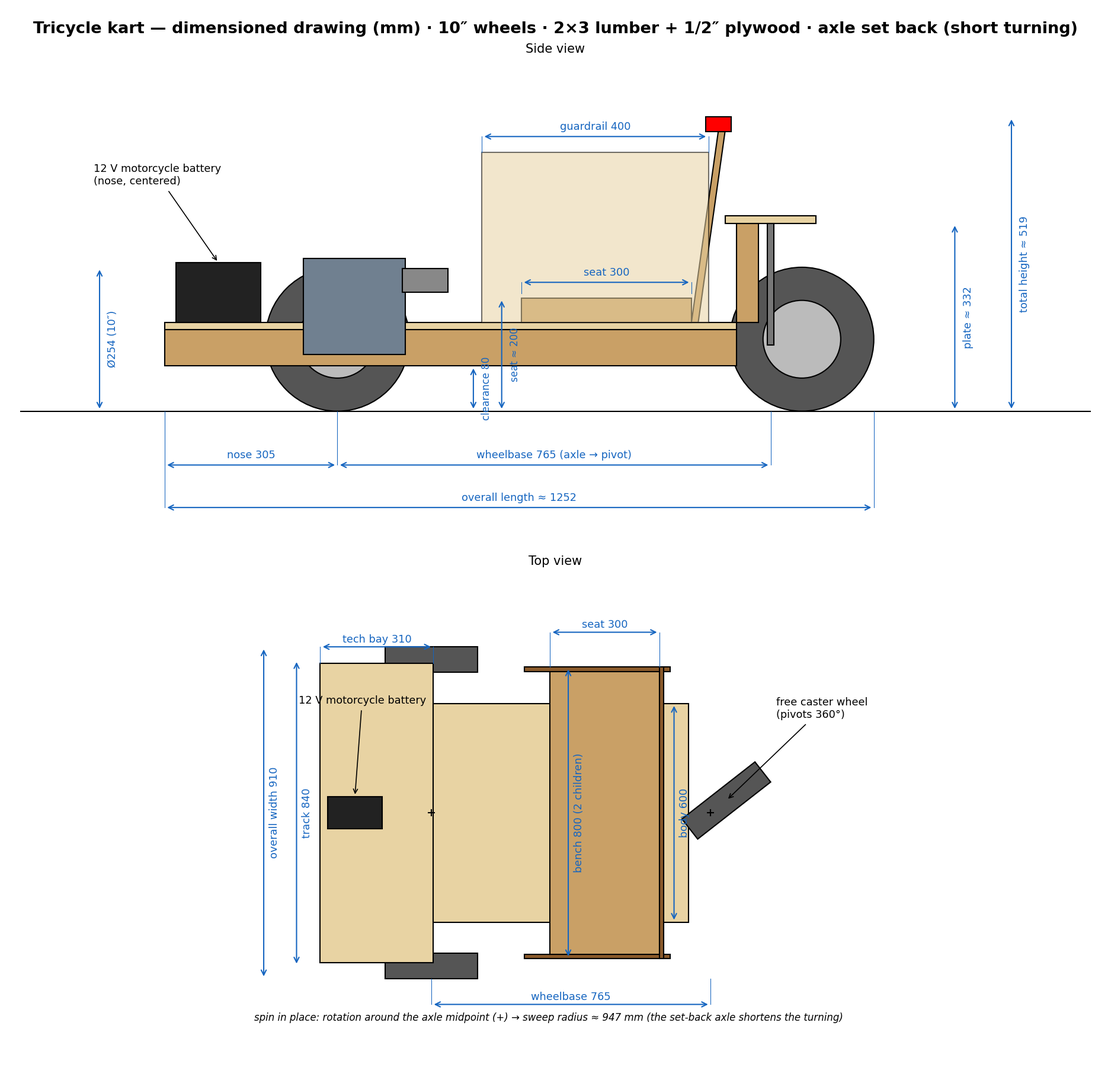
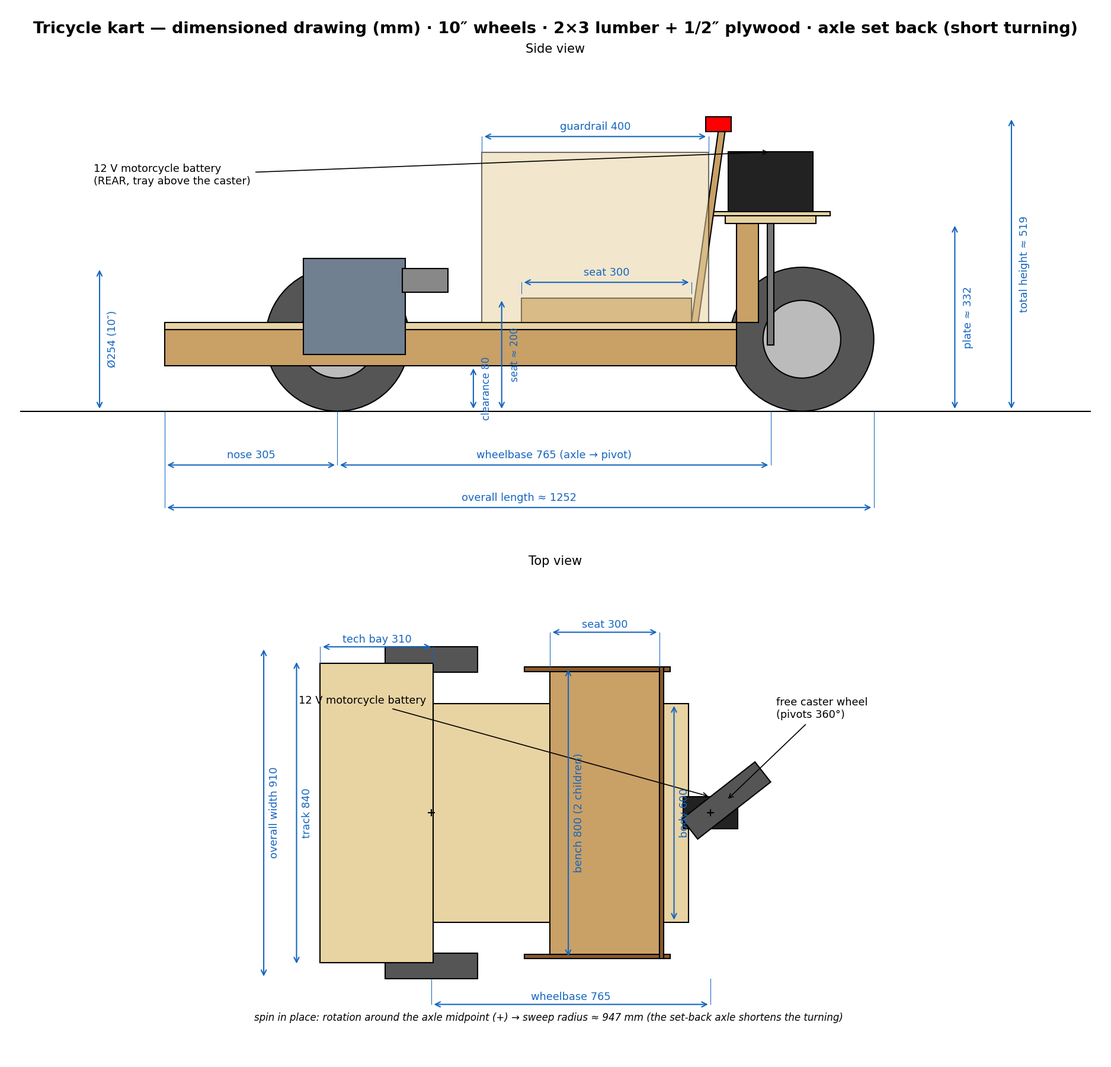
The battery moves to the rear, and the rollover range shrinks to match
'la batterie va être en arrière du KART... quelque chose au-dessus de la roue
folle pour contenir la batterie' — layout change with real physics attached.
The ~4.5 kg pack goes from the nose floor to a retaining tray above the
caster: loaded CG moves rearward and up (sim xcg_m 0.40→0.44, hcg_m
0.38→0.39), and for a tricycle that narrows the effective half-track at the
CG — a_tip drops from 5.2 to 4.4 m/s² (−14 %).

The simulation caught the consequence exactly as designed: the parameter
sweep, which validates the ENTIRE web-settable rollover range, went from
worst margin +0.42 m/s² to −0.26 — three combinations at turn_alat_vmax=0.4
now tip. Remedy in kind: the parameter's max shrinks 0.4→0.3 (clampAll
squashes any stored 0.4 on load), the sweep list follows, and the re-run
passes with 0.90 m/s² of worst margin. The 0.2 default keeps comfortable
margins throughout.

Diagrams and docs follow the battery: kart_concept.scad grows the retaining
tray (plate + rims) above the caster and re-renders, kart_dimensions.py
draws the pack on the tray at plate height, and README/electronique.md tell
the honest trade — the caster gains load (no more nose-lift worry), the
drive wheels lose a little traction/braking, the 10 AWG pair runs rear→front
(~0.3 V at 40 A), and the fuse moves to the battery end of that run.

diff --git a/doc/schematics/kart_dimensions.py b/doc/schematics/kart_dimensions.py
@@ -3,7 +3,8 @@
 #   . .venv-schem/bin/activate && python doc/schematics/kart_dimensions.py
 # Reference: x=0 = front axle. The axle is SET BACK 325 mm into the body (nose in front):
 # the spin-in-place center moves closer to the vehicle midpoint → reduced sweep radius,
-# and the 12 V battery in the nose loads the drive wheels (traction/braking).
+# The 12 V battery now sits at the REAR, in a retaining tray above the caster (2026-08-03):
+# CG moves back (xcg 0.40->0.44) — rollover range re-validated in simulation (sim_main sweep).
 import matplotlib
 matplotlib.use('Agg')
 import matplotlib.pyplot as plt
@@ -30,7 +31,7 @@ TOTAL_L = (CASTER_WHEEL_X + WHEEL_D / 2) - BODY0            # ≈ 1252
 SEAT_X0, SEAT_X1 = 650 - SHIFT, 950 - SHIFT                 # seat: 325..625
 GUARD_X0 = 580 - SHIFT                                      # guardrail: 255..655
 BACK_X = 950 - SHIFT                                        # seatback foot: 625
-BAT_X0, BAT_L, BAT_W, BAT_H = 40 - SHIFT, 150, 88, 105      # 12 V motorcycle battery (nose, centered)
+BAT_X0, BAT_L, BAT_W, BAT_H = PIVOT_X - 75, 150, 88, 105    # 12 V battery: REAR, tray above the caster
 BODY_W, SEAT_W, BAY_W = 600, 800, 820
 OVERALL_W = TRACK + WHEEL_W            # 910
 SWEEP_R = CASTER_WHEEL_X + WHEEL_D / 2                      # sweep radius when pivoting ≈ 947
@@ -65,7 +66,8 @@ ax.add_patch(Circle((CASTER_WHEEL_X, AXLE_Z), WHEEL_D / 2, fc=DARK, ec='k'))  # 
 ax.add_patch(Circle((CASTER_WHEEL_X, AXLE_Z), WHEEL_D * 0.27, fc='#bbbbbb', ec='k'))
 ax.add_patch(Rectangle((BODY0, CLEAR), 1010, LU_H, fc=WOOD, ec='k'))       # stringer
 ax.add_patch(Rectangle((BODY0, FLOOR_Z), 1010, PLY, fc=PLYC, ec='k'))      # floor
-ax.add_patch(Rectangle((BAT_X0, FLOOR_TOP), BAT_L, BAT_H, fc='#222222', ec='k'))  # 12 V battery
+ax.add_patch(Rectangle((BAT_X0 - 30, CASTER_PLATE + PLY), BAT_L + 60, 8, fc=PLYC, ec='k'))  # battery tray
+ax.add_patch(Rectangle((BAT_X0, CASTER_PLATE + PLY + 8), BAT_L, BAT_H, fc='#222222', ec='k'))  # 12 V battery
 ax.add_patch(Rectangle((SEAT_X0, FLOOR_TOP), 300, 30 + PLY, fc=WOOD, ec='k'))  # seat
 ax.add_patch(Polygon([(BACK_X, FLOOR_TOP), (BACK_X + 340 * math.cos(math.radians(82)), BACK_TOP),
                       (BACK_X + 12 + 340 * math.cos(math.radians(82)), BACK_TOP), (BACK_X + 12, FLOOR_TOP)],
@@ -78,7 +80,7 @@ ax.add_patch(Rectangle((-60, CLEAR + 20), 180, 170, fc='#708090', ec='k'))      
 ax.add_patch(Rectangle((115, CLEAR + 130), 80, 42, fc='#888888', ec='k'))           # motor
 be_x = BACK_X + 340 * math.cos(math.radians(82))
 ax.add_patch(Rectangle((be_x - 22, BACK_TOP), 45, 26, fc='red', ec='k'))            # e-stop
-ax.annotate("12 V motorcycle battery\n(nose, centered)", xy=(BAT_X0 + BAT_L / 2, FLOOR_TOP + BAT_H),
+ax.annotate("12 V motorcycle battery\n(REAR, tray above the caster)", xy=(BAT_X0 + BAT_L / 2, CASTER_PLATE + PLY + 8 + BAT_H),
             xytext=(-430, 400), fontsize=8.5, arrowprops=dict(arrowstyle='->', lw=0.8))
 
 dim(ax, (BODY0, 0), (0, 0), "nose 305", off=-95)

diff --git a/firmware/main/config_params.cpp b/firmware/main/config_params.cpp
@@ -61,8 +61,8 @@ extern constexpr ParamDesc PARAMS[] =
     // OFFSET LOAD (child alone on one side, adult+child) tips over with the old
     // linear ramp as soon as gain=1 — the iso-a_lat at 0.2 restores healthy margins (≥ +0.8 m/s²).
     {"turn_alat_vmax",  "Max turn at Vmax (0-1)", "Rollover protection",
-     "Turn limit at maximum speed; in between, the limit follows 1/v (same lateral acceleration at all speeds). 0.2 = the only value verified safe by simulation for offset loads (child alone on one side, adult+child) with turn gain 1.",
-     PType::Float, {.f = 0.1f}, {.f = 0.2f}, {.f = 0.4f}, {.f = &KartConfig::turn_hi}},
+     "Turn limit at maximum speed; in between, the limit follows 1/v (same lateral acceleration at all speeds). 0.2 = the default verified safe by simulation for offset loads with turn gain 1. Range re-validated for the REAR battery (max was 0.4 with it in the nose; 0.4 tips with the new CG).",
+     PType::Float, {.f = 0.1f}, {.f = 0.2f}, {.f = 0.3f}, {.f = &KartConfig::turn_hi}},
     // (No vbat_div_ratio: the divider is fixed by the resistors on the board — hw::VBAT_DIV_RATIO.)
     {"vbat_check_en",   "Voltage check (0/1)",    "Battery",
      "1 = the low-voltage cutoff (LVC) is a driving condition: below the threshold of the detected battery the kart disarms, refuses to move, and cuts the power after 30 s. 0 = the voltage is still measured, displayed and graphed, but NEVER blocks anything — for bench work with no pack on the divider bridge. WARNING: with 0 the battery's own BMS is the only remaining protection against deep discharge.",

diff --git a/firmware/test_host/sim/vehicle.hpp b/firmware/test_host/sim/vehicle.hpp
@@ -30,8 +30,9 @@ struct VehicleParams
     float track_m   = 0.84f;    // front track width (centers of the drive wheels)
     float wb_m      = 0.765f;   // wheelbase axle → caster wheel pivot
     float iz_kgm2   = 12.f;     // yaw inertia (estimated: m·(L/2)²·k)
-    float xcg_m     = 0.40f;    // CG behind the front axle (battery at the nose)
-    float hcg_m     = 0.38f;    // height of the loaded CG (children sitting low, moving a bit)
+    float xcg_m     = 0.44f;    // CG behind the front axle — battery moved to the REAR,
+                                // above the caster (2026-08-03): was 0.40 with it in the nose
+    float hcg_m     = 0.39f;    // loaded CG height (battery raised onto the caster shelf)
     float ycg_m     = 0.f;      // LATERAL offset of the CG (+ = left) — asymmetric load
 
     // ── 12 V DC motor (per wheel) — 4615 rpm no-load, ~19.6 A nominal ──

diff --git a/firmware/test_host/sim_main.cpp b/firmware/test_host/sim_main.cpp
@@ -325,7 +325,10 @@ void testParamSweep()
     int runs = 0;
     float worst = 1e9f;
     float worst_hi = 0, worst_full = 0, worst_lim = 0;
-    for (float turn_hi : {0.2f, 0.3f, 0.4f})
+    // 0.4 was in this list while the battery lived in the NOSE. Rear battery (2026-08-03):
+    // xcg 0.40→0.44, a_tip 5.2→4.4 m/s², and 0.4 tips (measured: margin −0.26 m/s²).
+    // The sweep validates the whole WEB RANGE, so the param max shrank with it.
+    for (float turn_hi : {0.2f, 0.3f})
         for (float turn_full : {0.3f, 0.5f, 0.8f})
             for (float vlim : {2.0f, 3.3f})
             {

diff --git a/README.md b/README.md
@@ -33,7 +33,7 @@ flowchart TB
     subgraph AV["◄ FRONT ► — 2 DRIVE wheels + TECH BAY"]
         direction LR
         AVG["🛞 front wheel L<br/>motor + gearbox + #35 chain"]
-        BAY["🔋 TECH BAY (nose)<br/>12 V motorcycle battery<br/>🧠 ESP32 + 2-channel driver"]
+        BAY["🧠 TECH BAY (nose)<br/>ESP32 + 2-channel driver<br/>(short motor wiring)"]
         AVD["🛞 front wheel R<br/>motor + gearbox + #35 chain"]
         AVG ~~~ BAY ~~~ AVD
     end
@@ -46,7 +46,7 @@ flowchart TB
     end
     subgraph AR["◄ REAR ► — FREE caster wheel"]
         direction LR
-        ARC["🛞 pivoting caster wheel<br/>(caster, unpowered)"]
+        ARC["🛞 pivoting caster wheel<br/>(caster, unpowered)<br/>🔋 12 V battery on a tray above"]
     end
     AV --> CAB --> AR
 
@@ -68,9 +68,9 @@ flowchart TB
 
 > Regenerable visual concept: [`doc/cad/kart_concept.scad`](doc/cad/kart_concept.scad) (OpenSCAD —
 > 2 powered 10″ wheels at the front **with the axle set back into the body** (nose ~30 cm ahead of
-> the axle → short turning radius), **12 V motorcycle battery at the front, centered**, free 10″
-> caster wheel on a raised tail, 2-child bench, side guardrails, emergency stop at the top of the
-> seatback, 2×3 frame + 1/2″ plywood).
+> the axle → short turning radius), free 10″ caster wheel on a raised tail with the **12 V motorcycle battery in a
+> retaining tray above it (REAR)**, 2-child bench, side guardrails, emergency stop at the top of
+> the seatback, 2×3 frame + 1/2″ plywood).
 
 ![Dimensioned drawing of the kart](doc/schematics/kart_dimensions.png)
 
@@ -92,7 +92,7 @@ flowchart TB
 | **Wheels** | **2× front drive Ø25.4 cm (10″)** (plastic rim, 1/2" bearing) + **1 free pivoting rear caster wheel** |
 | **Driving** | **Bluetooth gamepad** (stick: Y = forward/reverse, X = turn); **calibration mandatory**; analog joystick reserved (future) |
 | **Electronics** | **ESP32** → **dual-channel driver 20 A / 6–30 V** (PWM + DIR / channel), **PWM capped at ≈ 12 V/Vbat** (12 V → ~100%, 24 V → ~50%); **tech bay in the nose** (near the 2 motors, short power wiring) |
-| **Power** | **One 12 V motorcycle battery**, **at the front, centered in the nose** — its weight loads the drive axle. Single pack, no paralleling |
+| **Power** | **One 12 V motorcycle battery**, **at the REAR in a retaining tray above the caster wheel** (owner's build choice). CG re-validated in simulation (turn range capped). Single pack, no paralleling |
 | **Speed** | Measured by **2 AS5600 angle sensors** (one per wheel, 1 per I²C bus); control loop at **500 Hz** |
 | **Controls** | Driving with the **Bluetooth gamepad**; **arming** button (physical or gamepad START, ~1 s); **hardware emergency stop** at the **top of the seatback, centered** (opens the 40 A motor relay by breaking its COIL — thin wires, ~10-20 ms; the logic rail stays up so the kart reports WHY it stopped; reachable by both kids and by an adult behind) **+** software emergency stop = gamepad button **B**; **electric brake by default** |
 | **Frame** | Lightweight **wood**: **2×3** studs + **6 mm plywood** floor |
@@ -105,7 +105,7 @@ flowchart TB
 - **Controlled stability**: a tricycle tips over faster than a 4-wheeler → low seat (16 cm), **wide front track** + **firmware rollover protection** (clamping the turn amplitude by speed **and** a slew-rate limiter on the turn).
 - **Flexible battery voltage (6–30 V driver)**: the motors are 12 V; the firmware **caps PWM AUTOMATICALLY at 12 V / measured Vbat** (smoothed ~1 s): motorcycle battery **12 V → ~100%**, 20 V pack → ~60%, **24 V → ~50%**. Changing battery = adjust the Vbat measurement **voltage divider** (swap the two resistors and edit the `hw::VBAT_R_TOP`/`VBAT_R_BOTTOM` constants — deliberately NOT a web setting, a wrong ratio would silently drag the LVC along); the LVC thresholds are **hard-coded per battery type** (12/24 V, detected at startup). A **manual** cap (`duty_cap`) remains available; ⚠ **without the Vbat sensor (ADS1115), the auto cap is inactive** → set `duty_cap` by hand if the battery exceeds 12 V.
 - **Free-rolling front wheels**: driven by **#35 chain** (sprocket bolted to the rim), they keep their original bearing — no through drive axle.
-- **Tech bay at the front**: batteries + driver + ESP32 are grouped **at the front, near the 2 motors** → **short power wiring** (fewer losses, fewer ~10 AWG wires to run), drive mass and energy concentrated over the drive axle. Longitudinal layout: **NOSE (tech bay + battery) → DRIVE AXLE → CABIN → REAR (free caster wheel)**. **The axle is set back ~32 cm into the body**: in a pivot in place (rotation about the middle of the axle) the swept envelope drops from ~1.27 m to **~0.95 m radius** (short turning radius), and the weight of the **battery centered in the nose** loads the drive wheels (traction + braking).
+- **Tech bay at the front, battery at the REAR**: the driver + ESP32 stay **near the 2 motors** (short motor wiring), while the **battery sits in a retaining tray above the caster wheel** — easier to secure and to swap. Longitudinal layout: **NOSE (electronics) → DRIVE AXLE → CABIN → REAR (caster + battery tray)**. **The axle is set back ~32 cm into the body**: pivot-in-place sweep ~0.95 m radius. The rear battery is an accepted trade: it **unloads the drive wheels a little** (traction/braking) and moves the CG rearward — the rollover protection range was **re-validated in simulation** for this CG (xcg 0.40→0.44: the old `turn_alat_vmax` max of 0.4 now tips, the range is capped at 0.3), and the battery leads run rear→front in 10 AWG (~0.3 V drop at 40 A).
 - **Safety**: **central hardware emergency stop**, at the **top of the seatback** (within reach of both kids and an adult behind), **e-stop in the 40 A relay's coil loop** (the mushroom breaks 150 mA, the relay contact breaks the 40 A; the logic rail survives and the firmware raises the MOTOR-POWER fault — which doubles as the per-session welded-contact test) **and** software gamepad emergency stop (button B); start via **momentary button** priming the two-relay latch (small opto module = logic rail, 40 A relay = motor power, the ESP holds via `POWER_HOLD`), one 40 A fuse, **electric brake by default** (gamepad disconnect → immediate braking), low-voltage cutoff (LVC), **2 s watchdog (PANIC)**, **disarmed** start by default, guards over chains/sprockets, seatbelt, helmet.
 
 ---
@@ -118,7 +118,7 @@ flowchart TB
 | Overall width | **96 cm** | Must fit **two kids side by side** |
 | **Bench inner width** | **~80 cm** | 2 × ~40 cm/child (shoulders + elbows) |
 | **Side guardrails** (1/2″ plywood, on each side of the bench) | height **~30 cm** above the floor, length ~40 cm | Keep the child from **falling out sideways**; rounded edges |
-| **Tech bay** (nose, **ahead of the axle**) | length ~**30 cm** | Houses the **battery (likely 12 V motorcycle, centered)** + driver, ESP32, breakout near the 2 motors (short wiring); the weight ahead of the axle **loads the drive wheels** |
+| **Tech bay** (nose, **ahead of the axle**) | length ~**30 cm** | Houses the driver, ESP32, breakout near the 2 motors (short motor wiring). The **battery lives at the REAR** (tray above the caster) |
 | **Front track** (drive-wheel spacing, center to center) | **84 cm** | Wide track = **tip resistance** AND **differential lever arm** (the wider the track, the sharper the turn for a given differential) |
 | **Wheelbase** (front axle ↔ caster pivot) | **~76 cm** (axle **set back** ~32 cm into the body) | **Short turning radius**: the pivot-in-place rotates about the middle of the axle → axle close to the vehicle center = **swept radius ~0.95 m**; and more weight on the drive wheels (traction/braking) |
 | Seat height (ground → seat bottom) | **16 cm** | **Low** center of gravity = limits rollover |
@@ -144,12 +144,13 @@ Reference 0 = **front** axle (drive wheels); dimensions measured **toward the re
 
 | Item | Distance from front axle | Height / ground |
 |---|---|---|
-| **Tech bay** (battery + electronics) | **~−30–0 cm (nose)** | on the floor, low |
+| **Tech bay** (electronics) | **~−30–0 cm (nose)** | on the floor, low |
 | Front axle (drive wheels, reference) | **0 cm** | center at 12.7 cm (Ø25.4 wheel) |
 | **Footrest** | **~5 cm** | footrest just behind the axle |
 | Front of the seat | **~32 cm** | ~20 cm |
 | **Back of the seatback** | **~62 cm** | seat at ~20 cm |
 | Rear caster pivot (free) | **~76 cm** | 10″ wheel (Ø25.4), plate at ~33 cm |
+| **Battery tray** (12 V battery, retained) | **~69–84 cm (above the caster)** | plate ~33 cm + battery |
 
 ➡ With the **Bluetooth gamepad**, there's **no more pedal box or steering wheel** to position: only seating ergonomics matter. **Seatback → footrest ≈ 57 cm** (62 − 5) ✔ leg almost straight, slight knee bend. Provide a safe place to **rest/charge the gamepad**. **Adjustable** seat (§6) to fit the child's size.
 
@@ -170,11 +171,11 @@ Reference 0 = **front** axle (drive wheels); dimensions measured **toward the re
 
 ```mermaid
 flowchart LR
-    BAY["🔋 Nose: tech bay<br/>12 V motorcycle battery — ~−30–0 cm"]
+    BAY["🧠 Nose: tech bay<br/>(ESP32 + driver) — ~−30–0 cm"]
     AV["🛞 Front drive axle<br/>Ø25.4 cm — 0 cm"]
     ASS["Front of seat<br/>~32 cm"]
     DOS["Seatback<br/>~62 cm"]
-    AR["🛞 Free rear caster<br/>pivot ~76 cm (10″ wheel)"]
+    AR["🛞 Free rear caster ~76 cm<br/>🔋 battery tray above (plate ~33 cm)"]
 
     BAY --> AV --> ASS --> DOS --> AR
 
@@ -196,7 +197,7 @@ flowchart LR
 flowchart TB
     subgraph AV["FRONT — 2 DRIVE wheels + TECH BAY"]
         RAVG["🛞 front left (drive)"]
-        BAY["🔋 tech bay<br/>batteries + driver + ESP32"]
+        BAY["🧠 tech bay<br/>driver + ESP32"]
         RAVD["🛞 front right (drive)"]
         RAVG --- BAY --- RAVD
     end
@@ -207,7 +208,7 @@ flowchart TB
         COND --- SEP --- PASS
     end
     subgraph AR["REAR — FREE caster wheel"]
-        RARC["🛞 pivoting caster wheel (caster)"]
+        RARC["🛞 pivoting caster wheel<br/>🔋 battery tray above"]
     end
     AV --- HAB --- AR
 
@@ -289,7 +290,7 @@ Web parameters: **`turn_gain`** (turn authority), **`turn_full_ms`** / **`turn_a
 | | **2× AS5600 angle sensor** + diametric magnet | one per front wheel, **1 per I²C bus**; contactless magnetic, **12-bit absolute I²C** (fixed address 0x36), **3.3 V native** (no level-shift), 4.7 kΩ pull-ups |
 | **Driving** | **Bluetooth gamepad** | stick: Y = forward/reverse, X = turn; button **B** = emergency stop, button **START** = arming; **calibration mandatory** |
 | | *Analog joystick* | **reserved (future, not wired)**: 2 ADS1115 channels (A1/A2) planned behind the same software abstraction |
-| **Power / electronics** | Battery | **One 12 V motorcycle battery** (~40 A peak OK, PWM ~100%) **centered in the nose**. No paralleling this phase. The driver accepts up to **30 V**, and the firmware still supports **24 V** (2×12 V in series, auto PWM ~50%) — unlikely to be used, and it would need the divider changed to 100 k/12 k (12 V/Vbat) |
+| **Power / electronics** | Battery | **One 12 V motorcycle battery** (~40 A peak OK, PWM ~100%) **at the REAR, strapped in a retaining tray above the caster wheel**. No paralleling this phase. The driver accepts up to **30 V**, and the firmware still supports **24 V** (2×12 V in series, auto PWM ~50%) — unlikely to be used, and it would need the divider changed to 100 k/12 k (12 V/Vbat) |
 | | **Battery adapters** (×2) | Slide-on holder → power terminals (+ / −) |
 | | **40 A DC relay** + optocoupler + drive transistor | main power switch (see [power switch](#power-switch-two-rails-two-relays)) + 1 fuse |
 | | **Power switch (latch)** | **opto-isolated relay module** (logic rail, driven by `POWER_HOLD`) + **start button** (primes; hold ~1 s at power-up) + **hidden FORCE ON toggle** (bench/flash). **No hold capacitor**: a reboot powers the kart off cleanly. Full BOM: [`doc/electronique.md`](doc/electronique.md) |
@@ -791,7 +792,7 @@ To adjust the **seatback ↔ front-of-seat** distance to the child's size:
 | + 2 kids (~33 kg each) | +66 kg |
 | **LOADED TOTAL** | **≈ 98 kg** |
 
-**Consequences:** wood dominates (~56% empty) → the first lever for weight saving. Removing the steering parts (steering wheel, column, tie rod, steering knuckles) **saves weight** versus the 4-wheeler; on the other hand the 2nd motor **and the tech bay (batteries + electronics)** concentrate the mass at the **front** (over the drive axle) → **load transfer onto the 2 drive wheels** (good for grip and traction; check that the rear caster stays loaded so it doesn't lift the nose). Rolling resistance at ~100 kg ≈ **25 N** on the flat; the combined drive force of the 2 front wheels is more than enough → **OK on the flat**, realistic grade **~3–6%**. Electric braking must be sized for ~100 kg.
+**Consequences:** wood dominates (~56% empty) → the first lever for weight saving. Removing the steering parts (steering wheel, column, tie rod, steering knuckles) **saves weight** versus the 4-wheeler; the electronics stay at the **front** near the motors, while the **battery now loads the rear caster** (tray above it) — no more nose-lift worry, but it **removes a little load from the drive wheels** (traction/braking) and moves the CG rearward: the rollover range was **re-validated in simulation** for this CG (`turn_alat_vmax` capped at 0.3; the sim's `xcg_m` went 0.40→0.44). Rolling resistance at ~100 kg ≈ **25 N** on the flat; the combined drive force of the 2 front wheels is more than enough → **OK on the flat**, realistic grade **~3–6%**. Electric braking must be sized for ~100 kg.
 
 ---
 
@@ -815,7 +816,7 @@ flowchart LR
 
 **Phase 3 — Front drives (replaces the old "steering").** On **each front wheel**: bolted sprocket (large washers / backing plate) + 3D gearbox + motor on a reinforced mount + #35 chain cut to length + tension adjustment + guard. **No linkage**: steering is differential, so nothing to adjust on the steering-wheel/tie-rod side. ✅ *With no power: each front wheel turns by hand, chain tensioned and lubricated.*
 
-**Phase 4 — Power electronics ⚠ (at the front).** The **single 12 V pack housed in the front tech bay** (short power wiring to the 2 motors); **fuse 40 A → 40 A DC relay → +12 V rail**; the relay coil driven by an **opto-isolated relay module** from `POWER_HOLD`, primed by the **button**, **hold START ~1 s** at power-up (the ESP needs ~700 ms to reach `app_main`); **NO hold capacitor** — a reboot drops the rail and powers the kart off cleanly (re-prime with START); a **hidden FORCE ON toggle inside the enclosure** forces the logic rail for bench/flash work; the **e-stop (NC mushroom) goes in the 40 A relay's COIL loop** (+12V_LOG → mushroom → 85; thin wires to the seatback, the relay contact breaks the 40 A); **1N4007 flyback across the 40 A coil** (cathode to 85/+). See [`doc/electronique.md`](doc/electronique.md) for the full wiring guide and [`doc/schematics/power_rails.png`](doc/schematics/power_rails.png) for the schematic; **mount the emergency-stop mushroom button at the top of the seatback, centered** (within reach of both kids and an adult behind); driver (⚠ **VB+/VB- polarity**) → 2 front motors; **~10 AWG**, crimped lugs. ✅ *With a multimeter BEFORE connecting: polarity, ~12 V at the driver, the button primes, and **the central e-stop kills the motor rail while the logic stays up** (the page must show the MOTOR POWER fault, GPIO22). Then check the reboot case: force a reset while powered — the relay MUST drop (clean power-off) and START must bring it back. Finally the 30-second brake test: logic up, motor relay open, spin a wheel by hand — if it resists, the e-stop brakes; if not, it freewheels (flat ground only).*
+**Phase 4 — Power electronics ⚠ (at the front).** The **single 12 V pack at the REAR, strapped in its retaining tray above the caster** (build the tray first: plywood plate + rims on the caster platform); **fuse 40 A AT the battery → 10 AWG pair to the nose → 40 A DC relay → +12 V rail**; the relay coil driven by an **opto-isolated relay module** from `POWER_HOLD`, primed by the **button**, **hold START ~1 s** at power-up (the ESP needs ~700 ms to reach `app_main`); **NO hold capacitor** — a reboot drops the rail and powers the kart off cleanly (re-prime with START); a **hidden FORCE ON toggle inside the enclosure** forces the logic rail for bench/flash work; the **e-stop (NC mushroom) goes in the 40 A relay's COIL loop** (+12V_LOG → mushroom → 85; thin wires to the seatback, the relay contact breaks the 40 A); **1N4007 flyback across the 40 A coil** (cathode to 85/+). See [`doc/electronique.md`](doc/electronique.md) for the full wiring guide and [`doc/schematics/power_rails.png`](doc/schematics/power_rails.png) for the schematic; **mount the emergency-stop mushroom button at the top of the seatback, centered** (within reach of both kids and an adult behind); driver (⚠ **VB+/VB- polarity**) → 2 front motors; **~10 AWG**, crimped lugs. ✅ *With a multimeter BEFORE connecting: polarity, ~12 V at the driver, the button primes, and **the central e-stop kills the motor rail while the logic stays up** (the page must show the MOTOR POWER fault, GPIO22). Then check the reboot case: force a reset while powered — the relay MUST drop (clean power-off) and START must bring it back. Finally the 30-second brake test: logic up, motor relay open, spin a wheel by hand — if it resists, the e-stop brakes; if not, it freewheels (flat ground only).*
 
 **Phase 5 — Control electronics.** ESP32 + breakout; **buck → 5 V on the 12 V LOGIC rail** (the ESP makes its own 3.3 V); **motor-power sense opto → GPIO22**; **ADS1115** (3.3 V) on bus 0, Vbat divider 100 k/15 k → A0 + capacitor; **2× AS5600**: wheel L on **bus 0 (SDA18/SCL19)**, wheel R on **bus 1 (SDA27/SCL14)**, 4.7 kΩ pull-ups per bus + centered magnets; START button (GPIO16, pull-up); WS2812B (GPIO4). *(Future reserve wired but unused: joystick on A1/A2 of the ADS1115.)* ✅ *Common grounds, 3.3 V/5 V present, AS5600 detected (0x36 on each bus) + ADS1115 (0x48).*
 
@@ -823,7 +824,7 @@ flowchart LR
 
 **Phase 7 — Progressive tests (wheels in the air).** Arm (physical or gamepad START), light forward → correct direction of **each wheel** (swap M1A/M1B if needed); push the stick right → turns right; test **default brake**, **pivot in place**, **disarm**, **gamepad emergency stop (B)** and **gamepad disconnect → braking**, **central hardware e-stop** (motor rail dies, the page shows the MOTOR POWER fault, re-arm required); trigger the faults (simulated **LVC**, **sensor failure** by unplugging an AS5600) → must refuse/cut. Then on the ground: flat terrain, minimum speed, rollover protection active, 1 light child first, **progressive** limit.
 
-**Phase 8 — Final safety.** Seatbelt anchored, helmets, guards, rounded corners, footrest, secured axles, tightened caster, **front tech bay secured** (batteries wedged), **central emergency stop clear and tested** (motor feed broken, fault reported). **Inspection before each use**. Use **under adult supervision**.
+**Phase 8 — Final safety.** Seatbelt anchored, helmets, guards, rounded corners, footrest, secured axles, tightened caster, **front tech bay secured**, **battery strapped in its rear tray**, **central emergency stop clear and tested** (motor feed broken, fault reported). **Inspection before each use**. Use **under adult supervision**.
 
 ---
 

diff --git a/doc/electronique.md b/doc/electronique.md
@@ -150,7 +150,7 @@ a 40 A acceleration cannot false-trip. Decoupling capacitor (100 nF) at A0.
 
 | # | Part | Spec / rating | Qty | Role |
 |--:|---|---|--:|---|
-| 1 | Motorcycle battery | 12 V lead-acid, ≥ 40 A peak | 1 | single pack, centered in the nose |
+| 1 | Motorcycle battery | 12 V lead-acid, ≥ 40 A peak | 1 | single pack, **REAR** — strapped in a retaining tray above the caster |
 | 2 | Blade fuse + holder | **40 A** | 1 | master protection at battery + |
 | 3 | Opto relay module | 12 V coil, opto input, low trigger, contacts ≥ 10 A | 1 | logic-rail switch (COM/NO) |
 | 4 | Automotive relay | 12 V coil, **40 A** on 87 (NO), SPDT | 1 | motor-rail switch |
@@ -176,8 +176,10 @@ a 40 A acceleration cannot false-trip. Decoupling capacitor (100 nF) at A0.
 
 Work with the battery disconnected; connect it last.
 
-1. **Battery + → fuse holder (40 A)** — 10 AWG, lug at the battery. Battery − → common
-   ground bus (10 AWG).
+1. **Battery + → fuse holder (40 A) AT the battery** (rear tray, above the caster) — then the
+   **10 AWG pair runs rear→front** along a frame rail to the nose (≈ 1.1 m each way: ~7 mΩ
+   round trip, ~0.3 V at 40 A — fine). Battery − → common ground bus (10 AWG). Keep signal
+   looms on the other rail, away from this run.
 2. **Fused + → 40 A relay pin 30** (10 AWG) and **fused + → relay-module COM** (18 AWG — the
    logic rail carries ≤ 2–3 A).
 3. **Relay module**: `NO` → **+12V_LOG bus** (18 AWG). `VCC` → +12V_LOG bus (yes, its own
